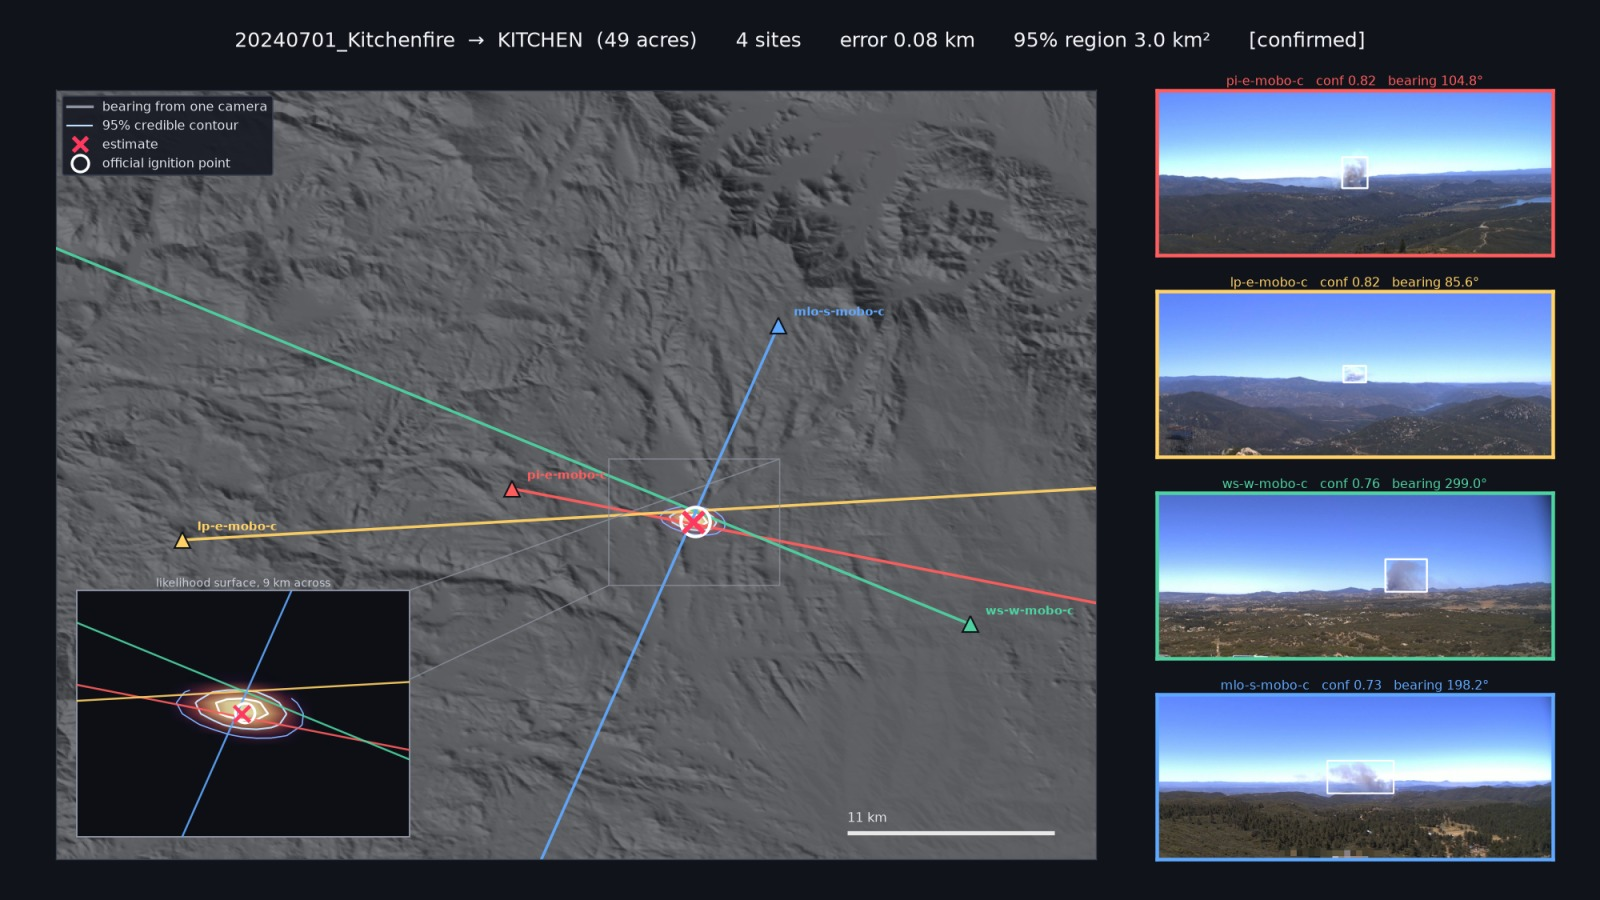
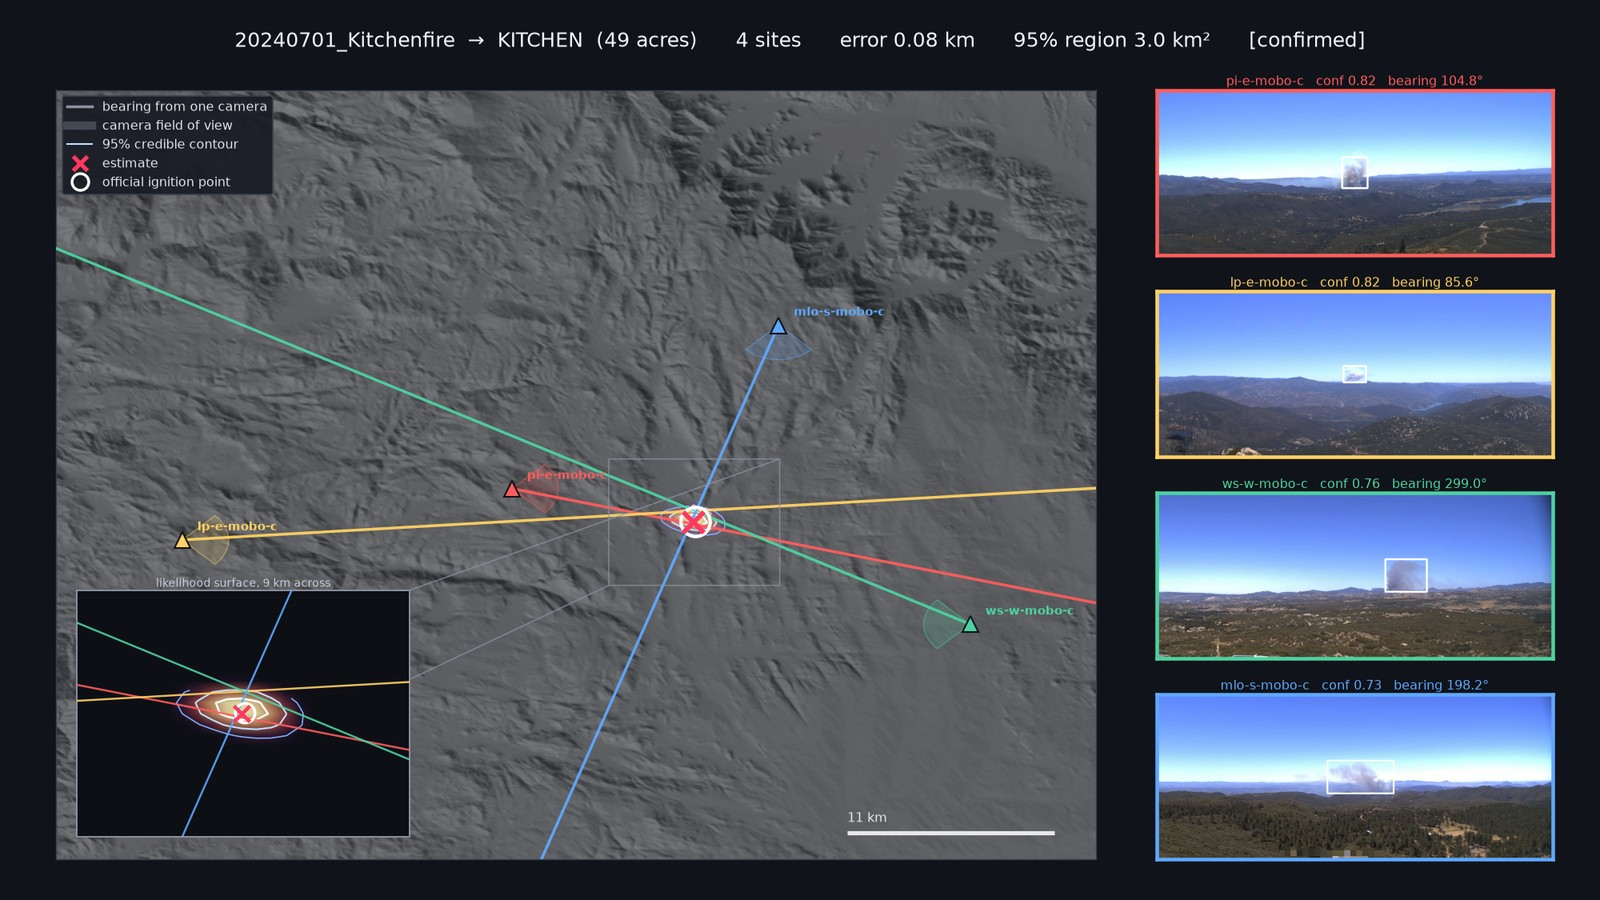
Draw each camera's field-of-view wedge in the triangulation figures and animation
A bearing ray shows one detection's direction, but nothing showed which way the
camera itself was pointed. Draw a short, faint wedge at each camera's published
az/fov -- fixed to ~50px (30px in the animation) so it reads as a glyph rather
than stretching across the map -- and regenerate the static figures, contact
sheet, and the Kitchen fire GIF that ship in docs/figures/.

diff --git a/src/figlib/fig_triangulate.py b/src/figlib/fig_triangulate.py
@@ -165,6 +165,11 @@ def render(fire_id: str, fire: dict, truth: dict, tier: str, seqs: dict, cams: d
     ax = fig.add_subplot(gs[:, 0])
     ax.set_facecolor("#11131a")
 
+    dlat = half_km / 111.32
+    dlon = half_km / (111.32 * cos_lat)
+    ax.set_xlim(clon - dlon, clon + dlon)
+    ax.set_ylim(clat - dlat, clat + dlat)
+
     hs, extent = _hillshade(clat, clon, half_km)
     if hs is not None:
         ax.imshow(hs, origin="lower", extent=extent, cmap="gray",
@@ -187,7 +192,33 @@ def render(fire_id: str, fire: dict, truth: dict, tier: str, seqs: dict, cams: d
               colors="#e8eefc")
 
     span = half_km * 2.4 / 111.32
+
+    # Pixel size of the axes box, to size the FOV wedge in screen pixels rather than
+    # ground distance -- a wedge drawn to scale would span kilometers and bury the map,
+    # when all it needs to do is show which way the camera looks.
+    ax_bbox = ax.get_position()
+    fig_w_px, fig_h_px = fig.get_size_inches() * fig.dpi
+    ax_w_px, ax_h_px = ax_bbox.width * fig_w_px, ax_bbox.height * fig_h_px
+    km_per_px = math.sqrt((2 * dlon * 111.32 * cos_lat / ax_w_px)
+                          * (2 * dlat * 111.32 / ax_h_px))
+    wedge_span = 50 * km_per_px / 111.32
+
     for b, col, _crop in crops:
+        # The camera's own fixed field of view, faint and short behind the sighting: the
+        # bearing ray is one detection, but the wedge is what the camera can ever see, so
+        # it's the thing that actually reads as "which way is this camera facing."
+        cam = cams.get(b.camera)
+        if cam is not None:
+            clat_c = math.radians(cam["lat"])
+            half_fov = math.radians(cam["fov"] / 2.0)
+            az0 = math.radians(cam["az"])
+            edges = np.linspace(az0 - half_fov, az0 + half_fov, 24)
+            wx = [cam["lon"]] + [cam["lon"] + math.sin(a) * wedge_span / math.cos(clat_c)
+                                  for a in edges] + [cam["lon"]]
+            wy = [cam["lat"]] + [cam["lat"] + math.cos(a) * wedge_span for a in edges] \
+                + [cam["lat"]]
+            ax.fill(wx, wy, color=col, alpha=0.16, lw=0, zorder=1)
+            ax.plot(wx, wy, color=col, lw=0.8, alpha=0.45, zorder=1)
         th = math.radians(b.bearing_deg)
         ax.plot([b.lon, b.lon + math.sin(th) * span / math.cos(math.radians(b.lat))],
                 [b.lat, b.lat + math.cos(th) * span],
@@ -202,11 +233,6 @@ def render(fire_id: str, fire: dict, truth: dict, tier: str, seqs: dict, cams: d
     ax.plot(truth["lon"], truth["lat"], "o", mfc="none", mec="#ffffff", ms=21, mew=2.4,
             zorder=7)
     ax.plot(elon, elat, "x", color="#ff3860", ms=15, mew=3.4, zorder=8)
-
-    dlat = half_km / 111.32
-    dlon = half_km / (111.32 * cos_lat)
-    ax.set_xlim(clon - dlon, clon + dlon)
-    ax.set_ylim(clat - dlat, clat + dlat)
 
     ax.set_xticks([]); ax.set_yticks([])
     for sp in ax.spines.values():
@@ -277,6 +303,7 @@ def render(fire_id: str, fire: dict, truth: dict, tier: str, seqs: dict, cams: d
 
     ax.legend(handles=[
         Line2D([], [], color="#8d93a3", lw=2, label="bearing from one camera"),
+        Line2D([], [], color="#8d93a3", lw=6, alpha=0.35, label="camera field of view"),
         Line2D([], [], color="#bfe0ff", lw=1.2, label="95% credible contour"),
         Line2D([], [], color="#ff3860", marker="x", ls="none", ms=10, mew=3,
                label="estimate"),

diff --git a/src/figlib/animate.py b/src/figlib/animate.py
@@ -32,7 +32,8 @@ STRIP_H = 92          # error-vs-time trace under the map
 CAM_W = 480
 
 
-def _map_panel(lats, lons, ll, est, truth, cam_pts, bearings, px=MAP_PX, trail=None):
+def _map_panel(lats, lons, ll, est, truth, cam_pts, bearings, px=MAP_PX, trail=None,
+               cams=None):
     """Posterior as an image: magma heat, camera markers, bearing rays, estimate, truth."""
     rel = ll - ll.max()
     if not np.any(ll):                       # nothing observed yet: draw it as empty
@@ -62,7 +63,24 @@ def _map_panel(lats, lons, ll, est, truth, cam_pts, bearings, px=MAP_PX, trail=N
         q = to_px(clat + math.cos(th) * span,
                   clon + math.sin(th) * span / math.cos(math.radians(clat)))
         cv2.line(img, p, q, (160, 210, 77), 1, cv2.LINE_AA)
-    for clat, clon in cam_pts:
+    # Each camera's fixed field of view, short and faint behind its marker -- the bearing
+    # ray is one detection, but the wedge is what the camera can ever see.
+    wedge_span = span * (30.0 / px)
+    for clat, clon, camera in cam_pts:
+        cam = (cams or {}).get(camera)
+        if cam is not None:
+            half_fov = math.radians(cam["fov"] / 2.0)
+            az0 = math.radians(cam["az"])
+            edges = np.linspace(az0 - half_fov, az0 + half_fov, 16)
+            pts = [to_px(clat, clon)] + [
+                to_px(clat + math.cos(a) * wedge_span,
+                      clon + math.sin(a) * wedge_span / math.cos(math.radians(clat)))
+                for a in edges]
+            poly = np.array(pts, dtype=np.int32)
+            overlay = img.copy()
+            cv2.fillPoly(overlay, [poly], (160, 210, 77))
+            cv2.addWeighted(overlay, 0.28, img, 0.72, 0, dst=img)
+            cv2.polylines(img, [poly], True, (160, 210, 77), 1, cv2.LINE_AA)
         cv2.drawMarker(img, to_px(clat, clon), (160, 210, 77),
                        cv2.MARKER_TRIANGLE_UP, 13, 2)
     if trail:
@@ -193,7 +211,7 @@ def animate(fire_id: str, fps: int = 6, max_cams: int = 4,
         det = gather(fire, seqs, cams, max(off, 0), conf_thr=0.10)
         det = {k: v for k, v in det.items() if k in dets_by_cam}
         est, err, lats, lons, ll = None, None, None, None, None
-        bearing_rays, cam_pts = [], [(cams[c[2]]["lat"], cams[c[2]]["lon"])
+        bearing_rays, cam_pts = [], [(cams[c[2]]["lat"], cams[c[2]]["lon"], c[2])
                                      for c in chosen]
         if len({k.split("-")[0] for k in det}) >= 2:
             # Coarse pass first, then a fine grid about its peak. Centering the fine grid
@@ -221,7 +239,7 @@ def animate(fire_id: str, fps: int = 6, max_cams: int = 4,
             ll = np.zeros((len(lats), len(lons)))
 
         right = _map_panel(lats, lons, ll, est, truth, cam_pts, bearing_rays,
-                           trail=trail)
+                           trail=trail, cams=cams)
         # error-vs-time strip: the whole point is that this is a trajectory, not a number
         strip = np.full((STRIP_H, MAP_PX, 3), 18, np.uint8)
         if hist:
